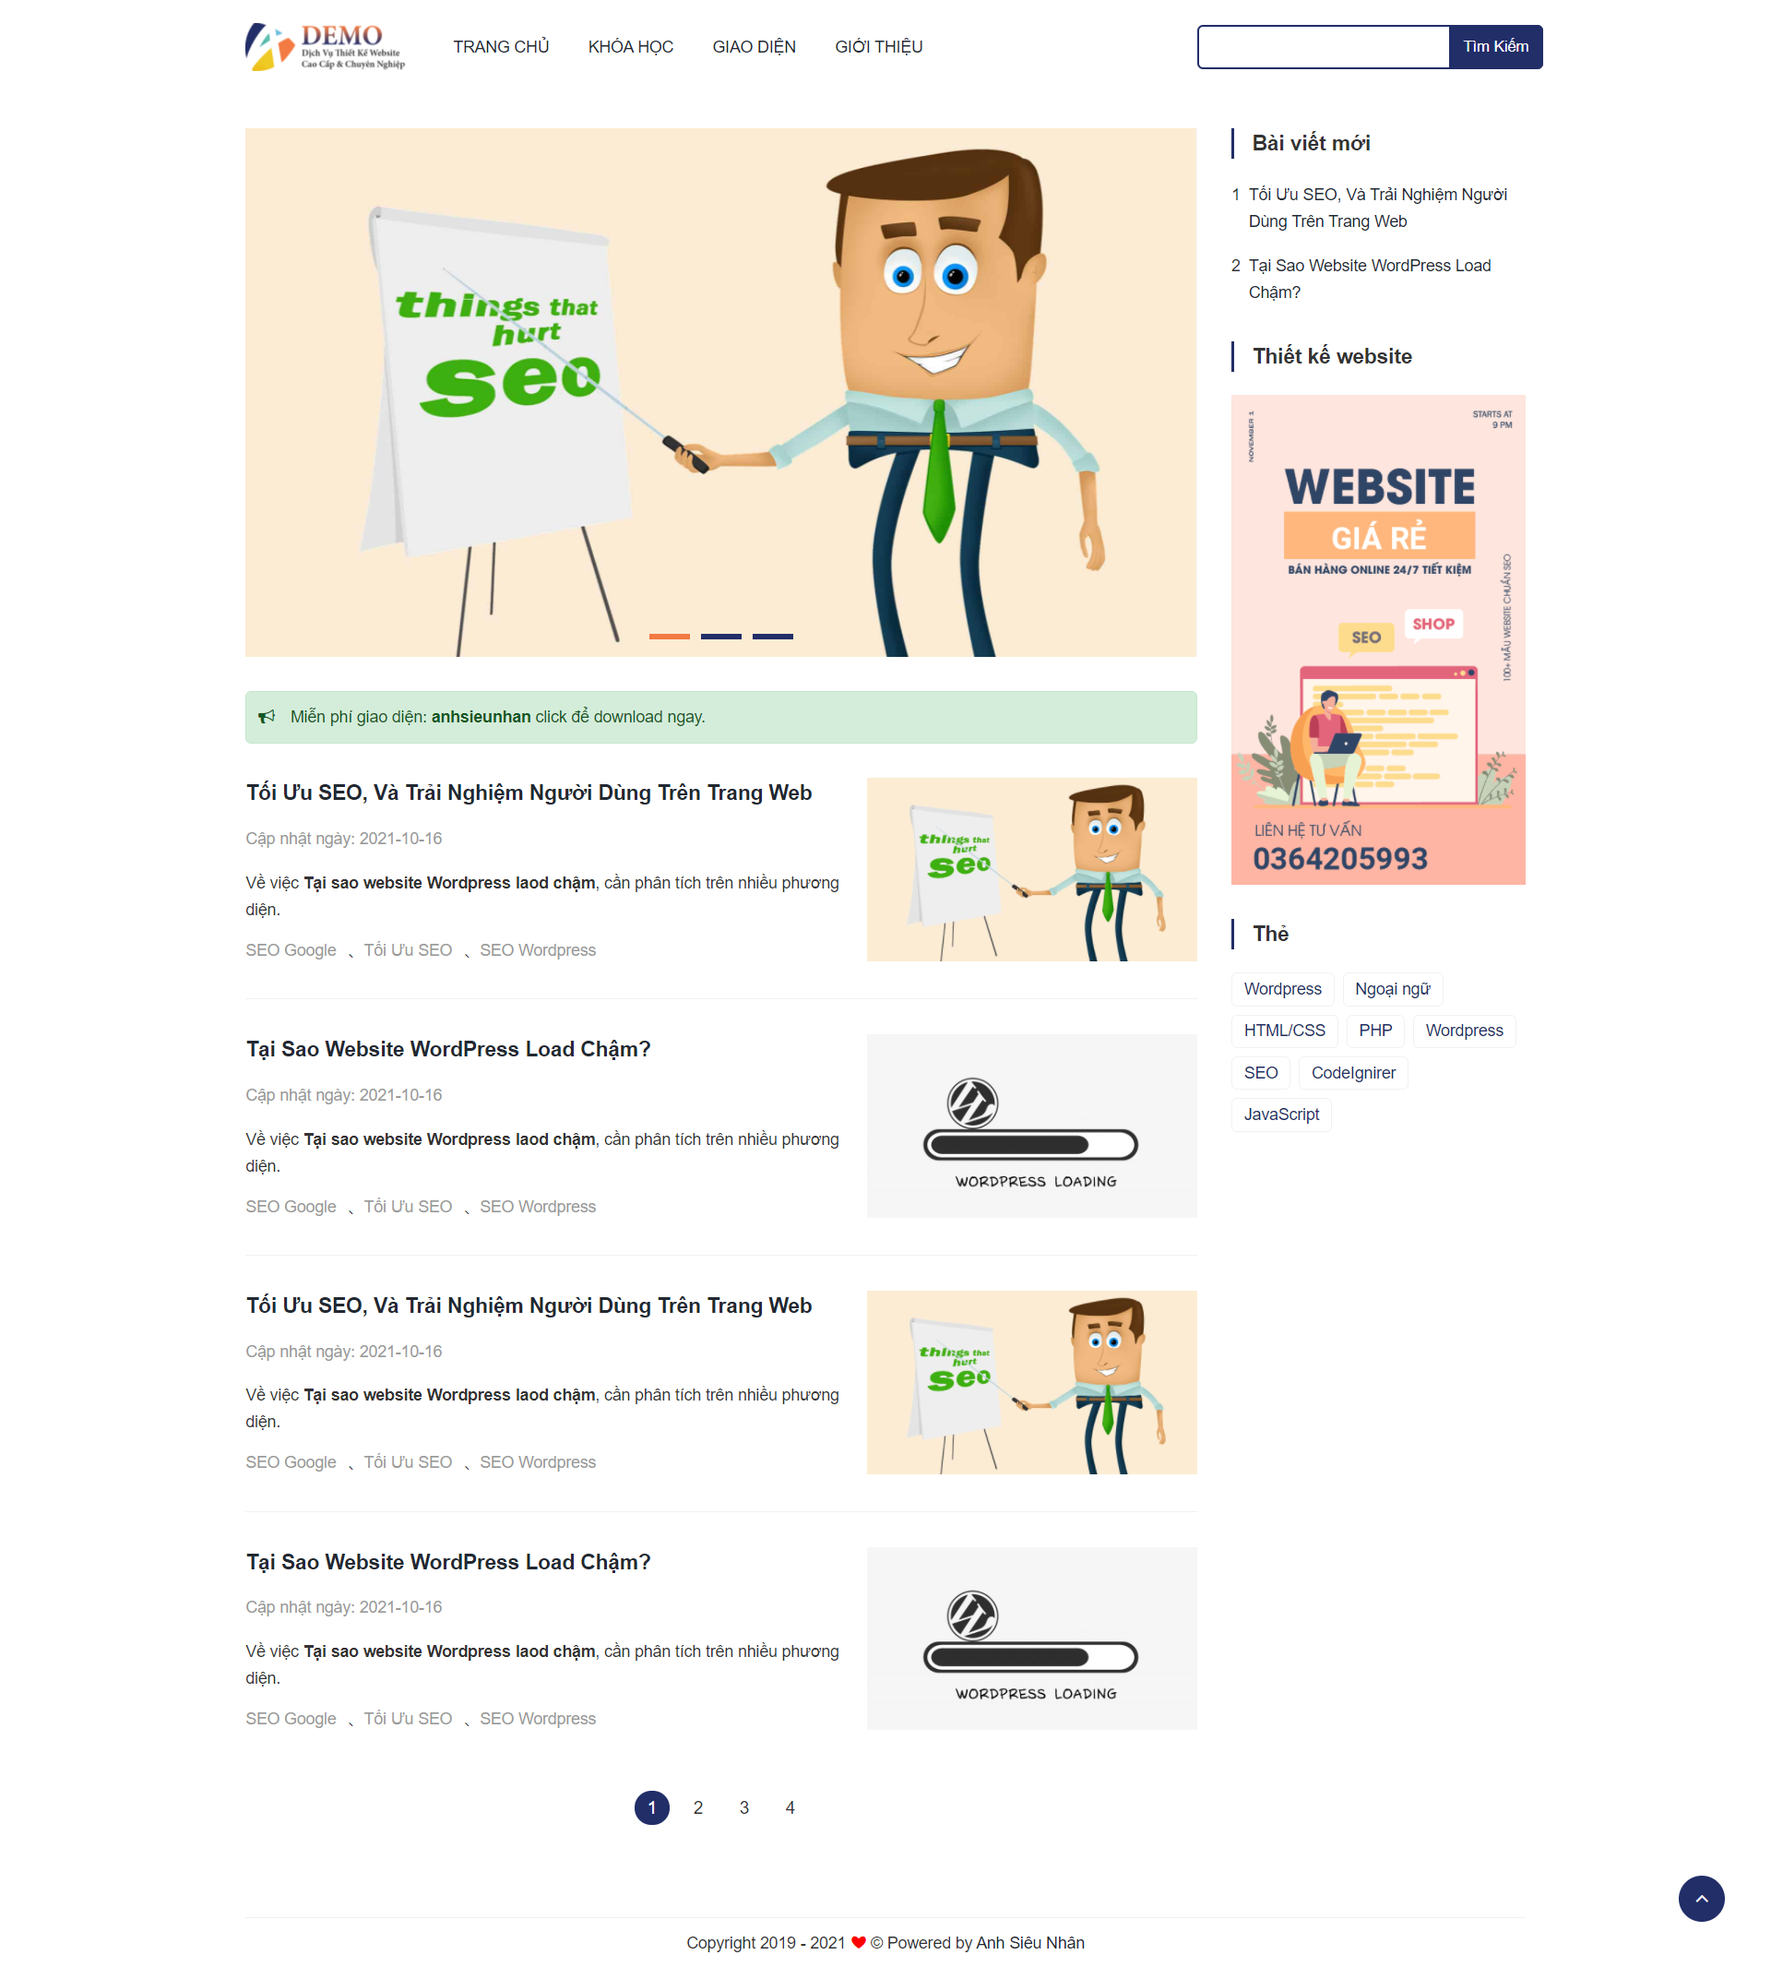
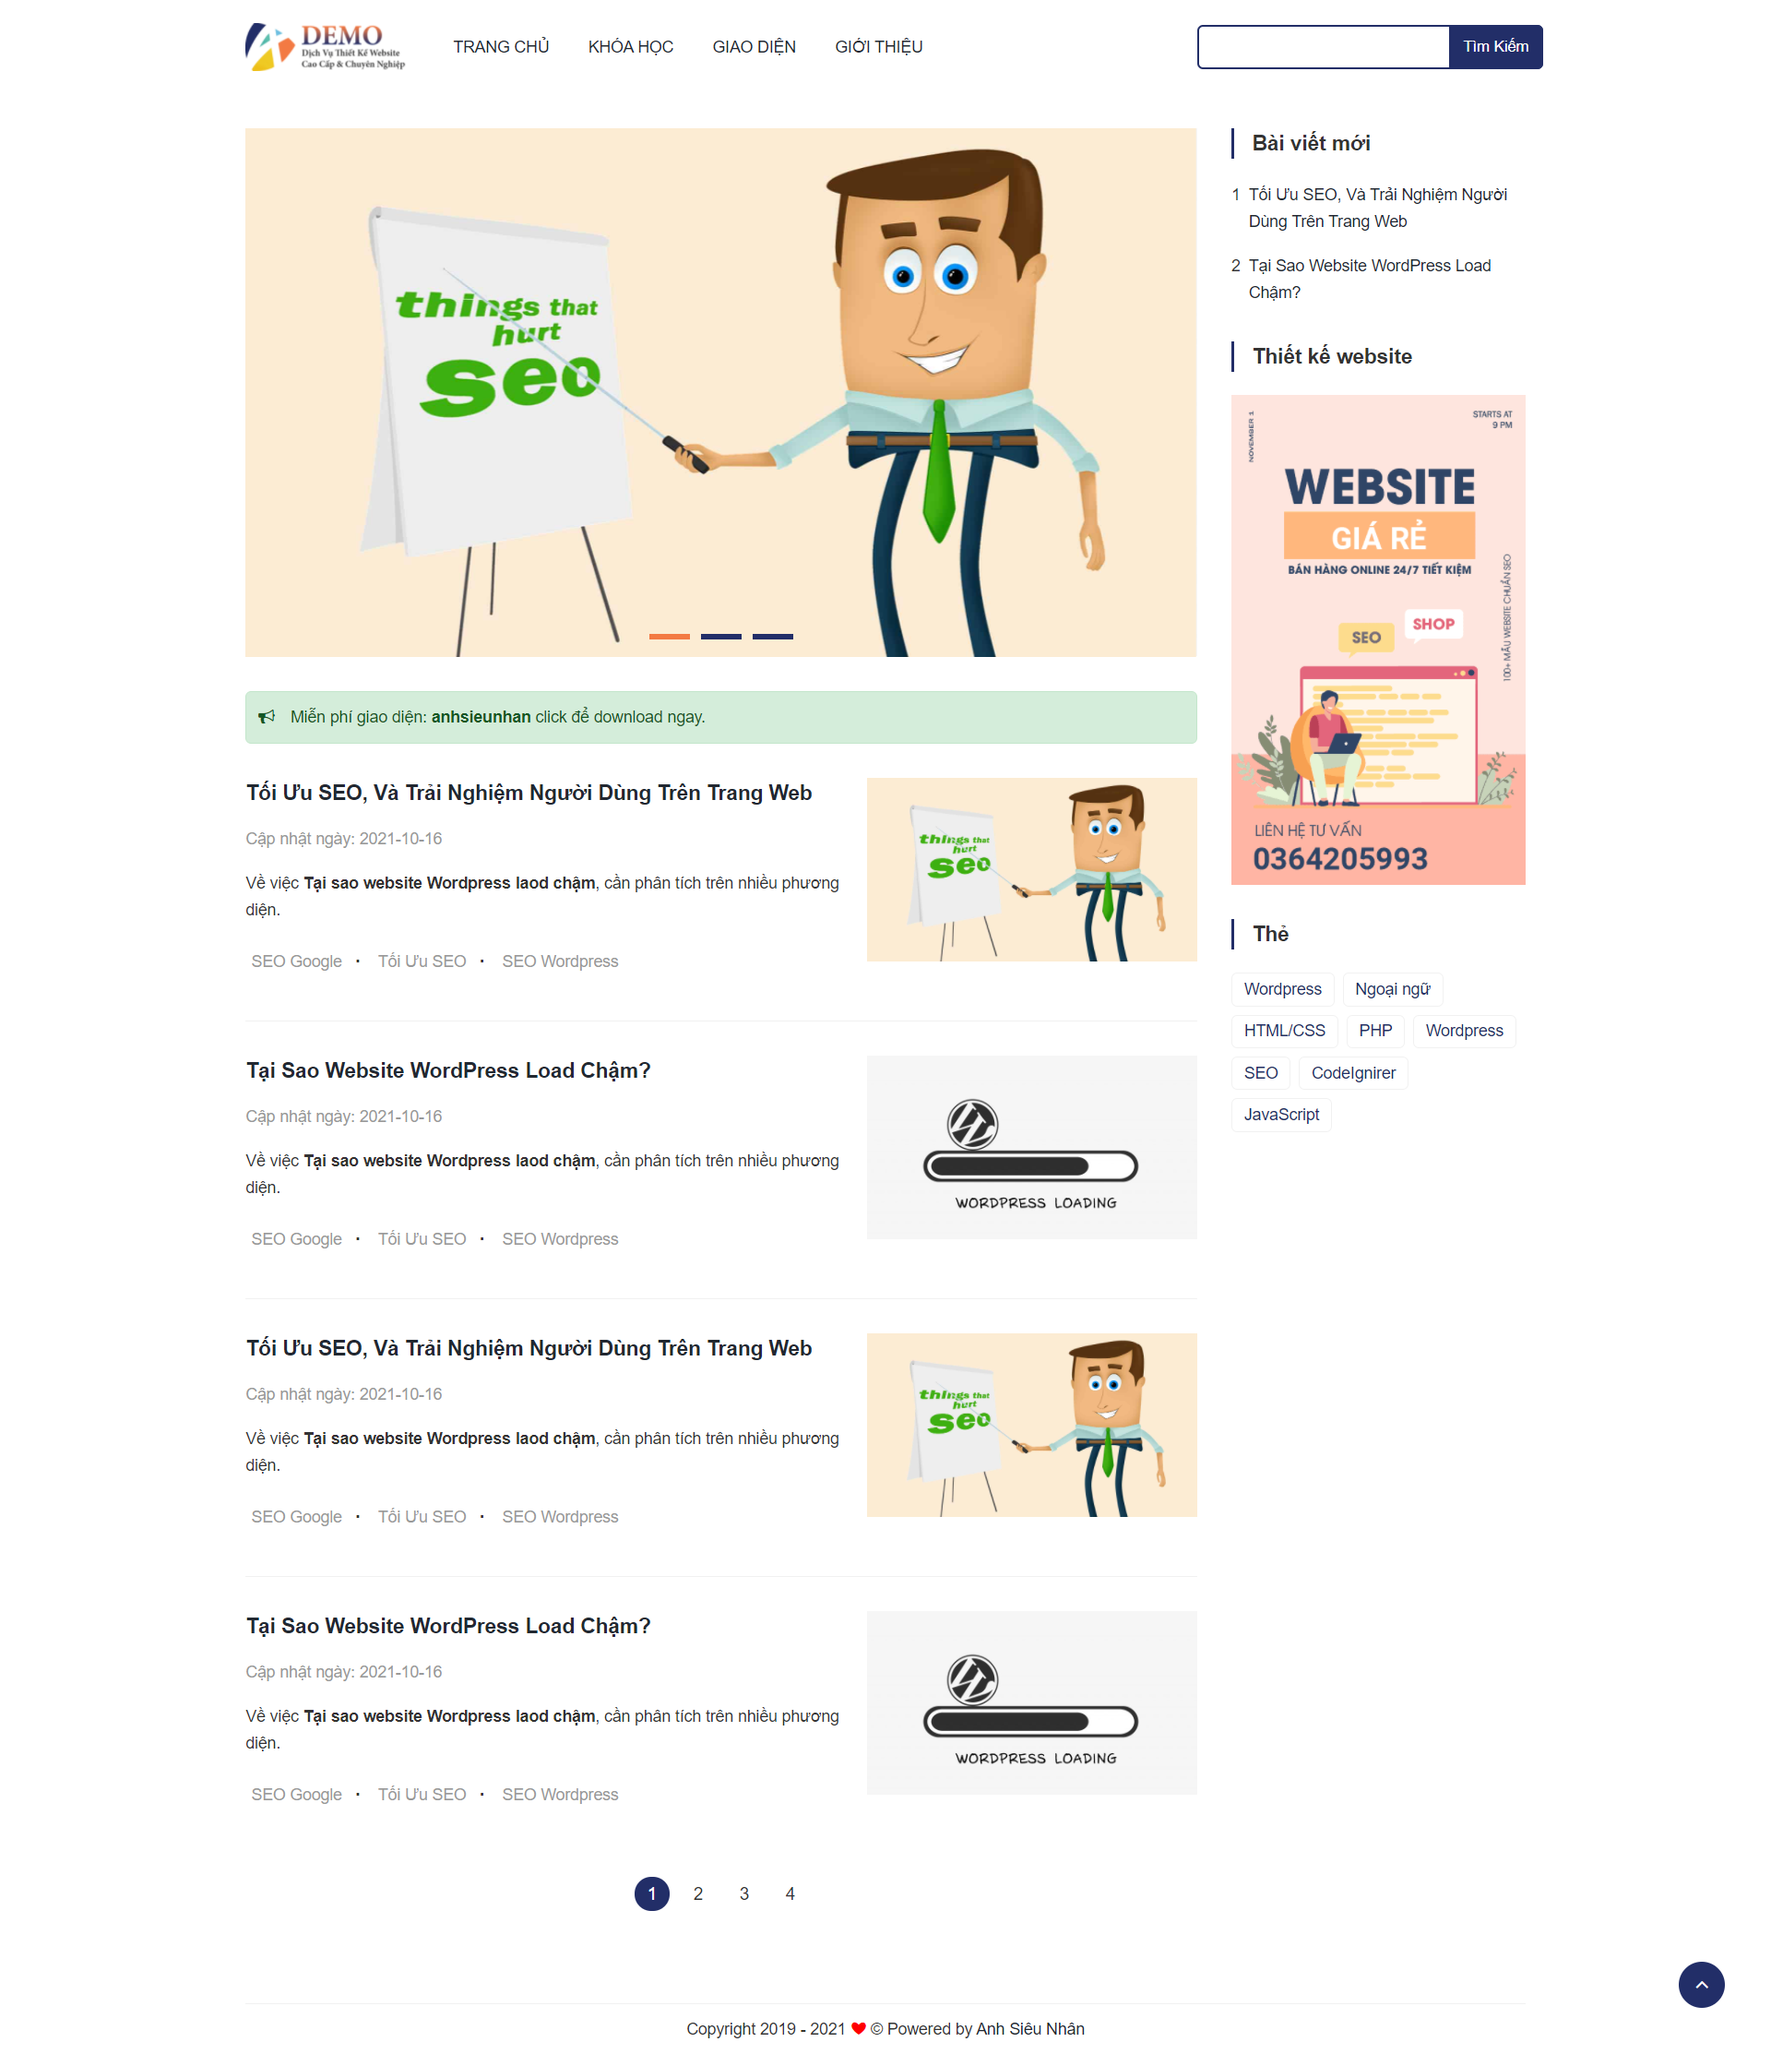
them trang chi tiet demo giao dien

diff --git a/theme-detail.html b/theme-detail.html
@@ -1,0 +1,122 @@
+<!DOCTYPE html>
+<html lang="en">
+
+<head>
+    <meta charset="UTF-8">
+    <meta http-equiv="X-UA-Compatible" content="IE=edge">
+    <meta name="viewport" content="width=device-width, initial-scale=1.0">
+    <title>Trang chủ | YeZiPi</title>
+
+    <link rel="stylesheet" href="assets/css/style.css">
+</head>
+
+<body>
+    <header class="header">
+        <div class="container">
+            <div class="row align-items-center py-20">
+                <a href="index.html" class="logo col" rel="home">
+                    <img src="assets/imgs/logo.png" alt="Anh Siêu Nhân">
+                </a>
+
+                <ul class="nav-list">
+                    <li><a href="index.html">Trang chủ</a></li>
+                    <li><a href="#">Khóa học</a></li>
+                    <li><a href="themes.html">Giao diện</a></li>
+                    <li><a href="#">Giới thiệu</a></li>
+                </ul>
+
+                <form action="#" method="post" class="form form-search ml-auto">
+                    <input type="text" name="s" placeholder="Tìm kiếm...">
+                    <input type="submit" value="Tìm kiếm">
+                </form>
+
+                <div class="btn-menu">
+                    <span></span>
+                    <span></span>
+                    <span></span>
+                </div>
+            </div>
+        </div>
+    </header>
+
+    <main>
+        <section class="app_head">
+            <div class="container">
+                <div class="row align-items-end flex-space-between py-30 pt-10">
+                    <div class="col xl5 l5">
+                        <div class="img">
+                            <img src="assets/imgs/halof.png" alt="anhsieunhan">
+                        </div>
+                    </div>
+
+                    <div class="col xl6 l6">
+                        <div class="text mb-30">
+                            <p class="sub_title">Mã giao diện : N-452</p>
+                            <h1 class="title">MẪU BLOG 01</h1>
+                            <p>Chuẩn SEO</p>
+                            <p>Tốc độ load tối đa</p>
+                            <p>Tương thích với mọi thiết bị ( Desktop, máy tính bảng, di dộng ... )</p>
+                            <p>Tính năng : Gói full tính năng</p>
+                            <p>Bàn giao sau 1 - 3 ngày</p>
+                        </div>
+
+                        <div class="flex">
+                            <a href="#" class="btn btn-danger mr-15">Liên hệ</a>
+                            <a href="#" class="btn btn-danger">Xem Demo</a>
+                        </div>
+                    </div>
+                </div>
+            </div>
+        </section>
+
+        <div class="container">
+            <div class="row py-30">
+                <div class="col xl12 l12">
+                    <ul class="supp">
+                        <li> <span class="fa fa-space-shuttle"></span> Giao diện đơn giản, gọn nhẹ</li>
+                        <li><span class="fa fa-laptop"></span> Hỗ trợ nhiều thiết bị</li>
+                        <li><span class="fa fa-crop"></span> Hoạt động trực quan</li>
+                        <li><span class="fa fa-wechat"></span> Hỗ trợ 24/7</li>
+                        <li><span class="fa fa-plug"></span> Nâng cấp miễn phí vĩnh viễn</li>
+                        <li><span class="fa fa-wrench"></span> Cài đặt miễn phí</li>
+                        <li><span class="fa fa-flash"></span> Cài đặt chủ đề miễn phí</li>
+                        <li><span class="fa fa-google"></span> Cấu hình SEO miễn phí</li>
+                    </ul>
+                </div>
+            </div>
+
+            <div class="row">
+                <div class="col xl12 l12">                    
+                    <div class="theme_detail">
+                        <h3 class="title">Chi tiết giao diện</h3>
+                    </div>
+                </div>
+            </div>
+        </div>
+    </main>
+
+    <section class="bottom">
+        <div class="container">
+            <div class="row ">
+                <div class="col xl12 l12">
+                    <div class="copyright text-center py-10">
+                        Copyright <span class="copyrightYear">2019 - 2021</span> <span class="loveWith">❤</span>
+                        © Powered by <a href="https://anhsieunhan.net" target="_blank">Anh Siêu Nhân</a>
+                    </div>
+                </div>
+            </div>
+        </div>
+    </section>
+
+    <div id="back-top" class="active">
+        <span class="fa fa-angle-up"></span>
+    </div>
+
+    <!-- JavaScript -->
+    <script src="assets/js/jquery.min.js"></script>
+    <script src="assets/js/slick.min.js"></script>
+
+    <script src="assets/js/main.js"></script>
+</body>
+
+</html>

diff --git a/themes.html b/themes.html
@@ -26,7 +26,7 @@
                 </ul>
 
                 <form action="#" method="post" class="form form-search ml-auto">
-                    <input type="text" name="s">
+                    <input type="text" name="s"  placeholder="Tìm kiếm...">
                     <input type="submit" value="Tìm kiếm">
                 </form>
 
@@ -75,7 +75,7 @@
                                 </div>
 
                                 <div class="action-wrap">
-                                    <a href="#" target="_blank">Chi tiết</a>
+                                    <a href="theme-detail.html" target="_blank">Chi tiết</a>
 
                                     <a href="https://anhsieunhan93.github.io/myblog/" target="_blank">Xem demo</a>
                                 </div>
@@ -98,7 +98,7 @@
                                 </div>
 
                                 <div class="action-wrap">
-                                    <a href="#" target="_blank">Chi tiết</a>
+                                    <a href="theme-detail.html" target="_blank">Chi tiết</a>
 
                                     <a href="https://anhsieunhan93.github.io/halof/" target="_blank">Xem demo</a>
                                 </div>
@@ -121,7 +121,7 @@
                                 </div>
 
                                 <div class="action-wrap">
-                                    <a href="#" target="_blank">Chi tiết</a>
+                                    <a href="theme-detail.html" target="_blank">Chi tiết</a>
 
                                     <a href="https://anhsieunhan93.github.io/halof/" target="_blank">Xem demo</a>
                                 </div>
@@ -144,7 +144,7 @@
                                 </div>
 
                                 <div class="action-wrap">
-                                    <a href="#" target="_blank">Chi tiết</a>
+                                    <a href="theme-detail.html" target="_blank">Chi tiết</a>
 
                                     <a href="https://anhsieunhan93.github.io/halof/" target="_blank">Xem demo</a>
                                 </div>
@@ -167,7 +167,7 @@
                                 </div>
 
                                 <div class="action-wrap">
-                                    <a href="#" target="_blank">Chi tiết</a>
+                                    <a href="theme-detail.html" target="_blank">Chi tiết</a>
 
                                     <a href="https://anhsieunhan93.github.io/halof/" target="_blank">Xem demo</a>
                                 </div>
@@ -190,7 +190,7 @@
                                 </div>
 
                                 <div class="action-wrap">
-                                    <a href="#" target="_blank">Chi tiết</a>
+                                    <a href="theme-detail.html" target="_blank">Chi tiết</a>
 
                                     <a href="https://anhsieunhan93.github.io/halof/" target="_blank">Xem demo</a>
                                 </div>

diff --git a/assets/css/style.css b/assets/css/style.css
@@ -132,8 +132,11 @@ article.detail .time {
   display: flex;
 }
 .category li::after {
-  content: "、";
+  content: "·";
   margin-left: 10px;
+  font-size: 22px;
+  position: relative;
+  top: 3px;
 }
 .category li:last-child::after {
   display: none;
@@ -144,6 +147,16 @@ article.detail .time {
 .category li:hover > a {
   color: rgb(34, 46, 104);
 }
+
+.category {
+  display: block;
+}
+
+.category li {
+  display: inline-block;
+  margin: 0 5px 5px;
+}
+
 .pagination {
   display: flex;
 }
@@ -344,4 +357,49 @@ article.detail .time {
 }
 .demo_box:hover .text {
   transform: translateY(0);
+}
+
+/* DEMO TEMPLATE DETAIL */
+.app_head {
+  background-color: #212e68;
+  overflow: hidden;
+  color: #fff;
+}
+
+.app_head .img {
+  transform: rotate(10deg) translateY(73px);
+  max-height: 430px;
+  overflow: hidden;
+  position: relative;
+}
+
+.app_head img {
+  height: auto;
+  max-height: initial;
+}
+
+.app_head .btn {
+  border-radius: 30px;
+}
+
+.app_head .title {
+  font-size: 24px;
+}
+
+
+.supp {
+  display: flex;
+  flex-wrap: wrap;
+}
+
+.supp li {
+  -ms-flex: 0 0 25%;
+  flex: 0 0 25%;
+  max-width: 25%;
+  margin-bottom: 15px;
+  font-size: 17px;
+}
+
+.supp li .fa {
+  margin-right: 10px;
 }

diff --git a/assets/css/resethtml5.css b/assets/css/resethtml5.css
@@ -491,6 +491,14 @@ h6 {
   align-items: center;
 }
 
+.align-items-start {
+  align-items: flex-start;
+}
+
+.align-items-end {
+  align-items: flex-end;
+}
+
 /* Btn Menu */
 
 .btn-menu {
@@ -1102,6 +1110,10 @@ button[type="submit"] {
   -webkit-transition: background 0.3s;
   -o-transition: background 0.3s;
   transition: background 0.3s;
+}
+
+.btn.btn-danger {
+  background-color: #f47a43;
 }
 
 .btn:hover {

diff --git a/index.html b/index.html
@@ -26,7 +26,7 @@
                 </ul>
 
                 <form action="#" method="post" class="form form-search ml-auto">
-                    <input type="text" name="s">
+                    <input type="text" name="s"  placeholder="Tìm kiếm...">
                     <input type="submit" value="Tìm kiếm">
                 </form>
 

diff --git a/single.html b/single.html
@@ -32,7 +32,7 @@
                 </ul>
 
                 <form action="#" method="post" class="form form-search ml-auto">
-                    <input type="text" name="s">
+                    <input type="text" name="s"  placeholder="Tìm kiếm...">
                     <input type="submit" value="Tìm kiếm">
                 </form>
 
